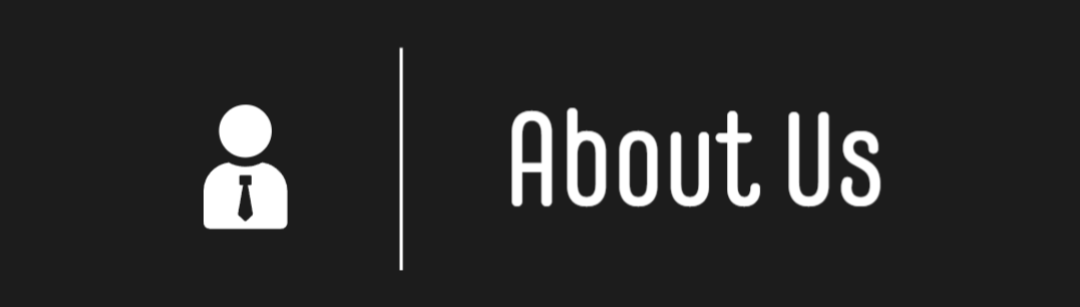
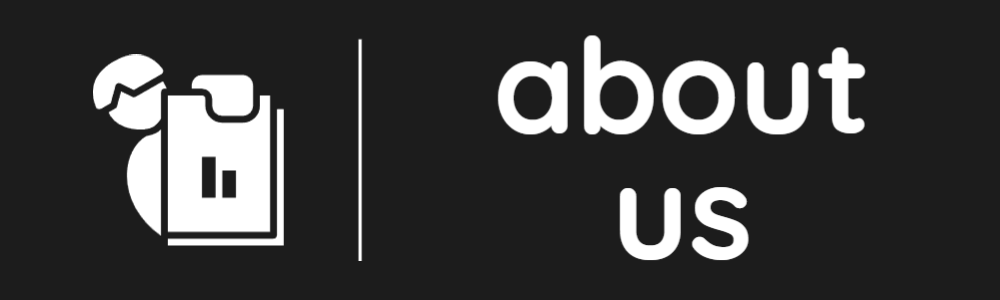
big update
updated all the pictures, added more functionality and about us.

Changed region(s): [[0.465, 0.12, 0.868, 0.87], [0.093, 0.18, 0.31, 0.84], [0.341, 0.15, 0.372, 0.87]]

diff --git a/fbla project/aidan's/main.py b/fbla project/aidan's/main.py
@@ -7,6 +7,7 @@ import random as rand
 
 from PIL import ImageTk, Image
 
+from about import about
 #from newStudent import inputStudent
 #from report import report
 #from winner import pickWinner
@@ -41,7 +42,7 @@ top_frame.place(x = 275, y= 0, anchor = NW)
 help2_image = PhotoImage(file = "./assets/help2_image.png")"""
 # Open and resize the image
 img = Image.open("./assets/logo.png")
-img = img.resize((400, 400), Image.ANTIALIAS)
+img = img.resize((400, 400))
 img = ImageTk.PhotoImage(img)
 
 # Create a label to display the image
@@ -130,17 +131,29 @@ button.place(relx=0.85,rely=0.4, anchor="center")
 """
 
 ## IMAGE BUTTONS
-event_image = Image.open("./assets/events.png")
-event_image = event_image.resize((250, 75), Image.ANTIALIAS)
+event_image = Image.open("./assets/event.png")
+event_image = event_image.resize((250, 75))
 event_image = ImageTk.PhotoImage(event_image)
-button = tk.Button(root, image=event_image)
-button.place(relx=0.85, rely=0.2, anchor="center")
+event_button = tk.Button(root, image=event_image)
+event_button.place(relx=0.85, rely=0.2, anchor="center")
 
 about_image = Image.open("./assets/about.png")
-about_image = about_image.resize((250, 75), Image.ANTIALIAS)
-tk_image2 = ImageTk.PhotoImage(about_image)
-button = tk.Button(root, image=tk_image2)
-button.place(relx=0.85, rely=0.4, anchor="center")
+about_image = about_image.resize((250, 75))
+about_image = ImageTk.PhotoImage(about_image)
+about_button = tk.Button(root, image=about_image, command=about)
+about_button.place(relx=0.85, rely=0.4, anchor="center")
+
+help_image = Image.open("./assets/help.png")
+help_image = help_image.resize((250, 75))
+help_image = ImageTk.PhotoImage(help_image)
+help_button = tk.Button(root, image=help_image, command=about) # CHANGE THIS
+help_button.place(relx=0.85, rely=0.6, anchor="center")
+
+exit_image = Image.open("./assets/leaderboard_final.png")
+exit_image = exit_image.resize((250, 75))
+exit_image = ImageTk.PhotoImage(exit_image)
+exit_button = tk.Button(root, image=exit_image, command=about) # CHANGE THIS
+exit_button.place(relx=0.85, rely=0.8, anchor="center")
 
 
 

diff --git a/fbla project/aidan's/about.py b/fbla project/aidan's/about.py
@@ -1,0 +1,43 @@
+import tkinter as tk
+import customtkinter as ctk
+
+from PIL import ImageTk, Image
+
+
+def about():
+    root1 = tk.Toplevel()
+    root1.geometry("600x600")
+    root1.configure(bg='#1c1c1c')
+
+    def close():
+        root1.destroy()
+
+    aboutText = Image.open("./assets/logo.png")
+    aboutText = aboutText.resize((400, 400))
+    aboutText = ImageTk.PhotoImage(aboutText)
+    aboutLabel = tk.Label(root1,image=aboutText, border= 0)
+    aboutLabel.image = aboutText
+    aboutLabel.place(relx=0.5, rely=0.5, anchor="center")
+
+    back_image = Image.open("./assets/back.png")
+    back_image = back_image.resize((25, 25))
+    back_image = ImageTk.PhotoImage(back_image)   
+    back_button = tk.Button(root1, image=back_image, border = 0, highlightthickness = 0)
+    back_button.image = back_image
+    back_button.place(relx=0.1, rely=0.1, anchor="center")
+
+    root1.mainloop()
+    """
+    aWin = ctk.CTkToplevel()
+    aWin.title("About us")
+    aWin.geometry("400x100")
+    """
+    """
+    Label = ctk.CTkLabel(aWin, text="HELLO",corner_radius=10)
+    Label.place(relx=0.5,rely=.3, anchor="center")
+    """
+    """
+    close_button = ctk.CTkButton(aWin, text="Close", command=close)
+    close_button.place(relx=0.5,rely=0.7, anchor="center")
+    """
+   
